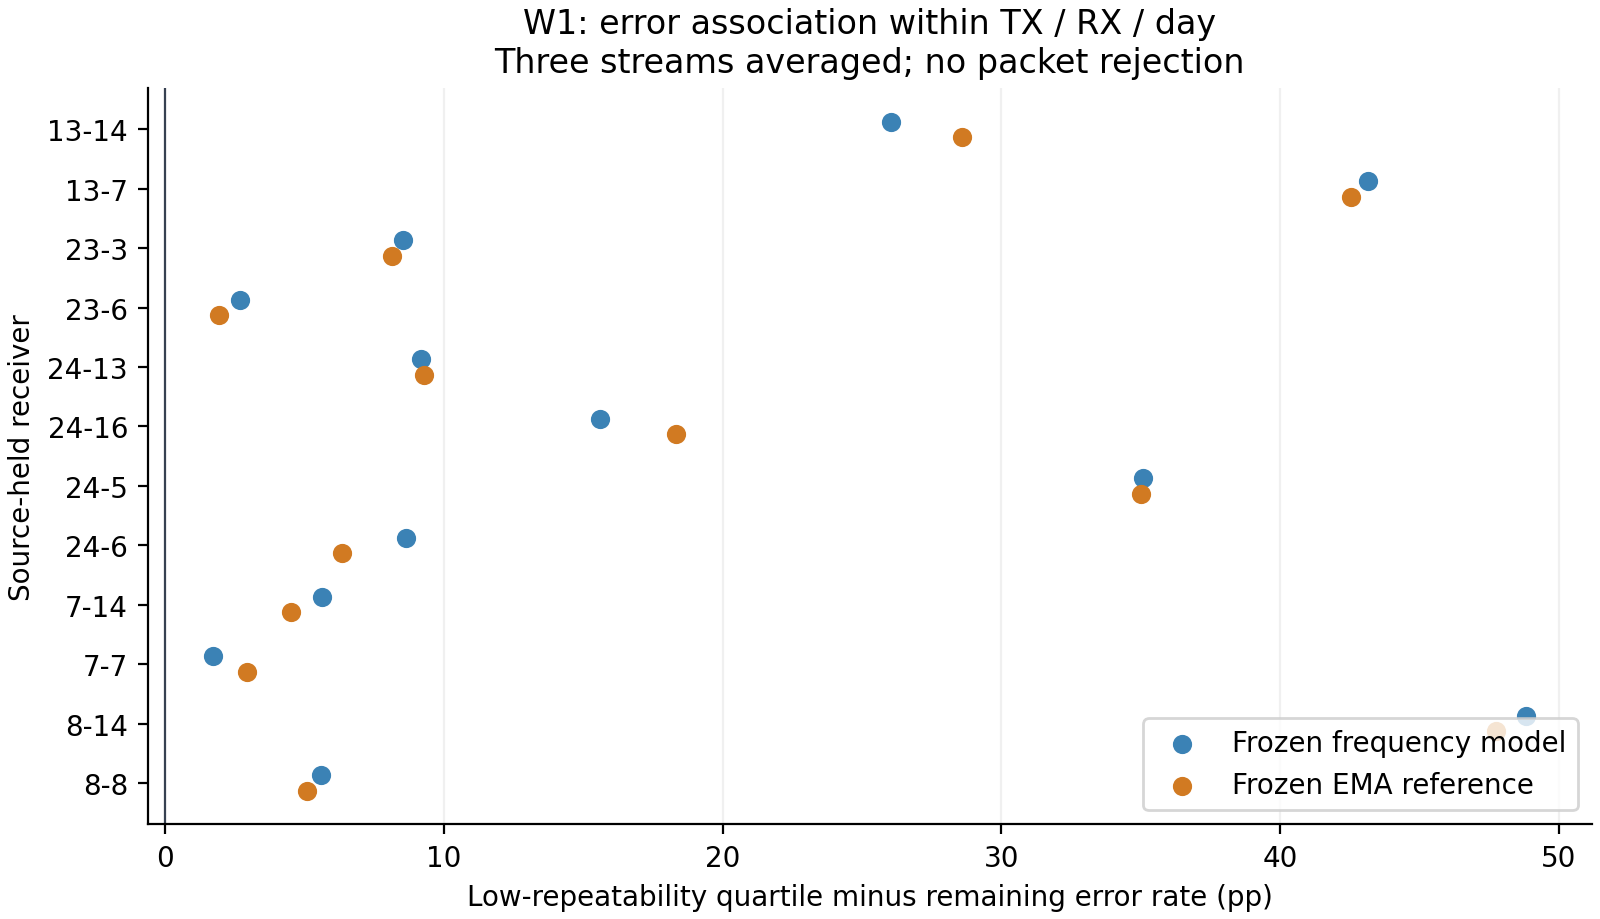
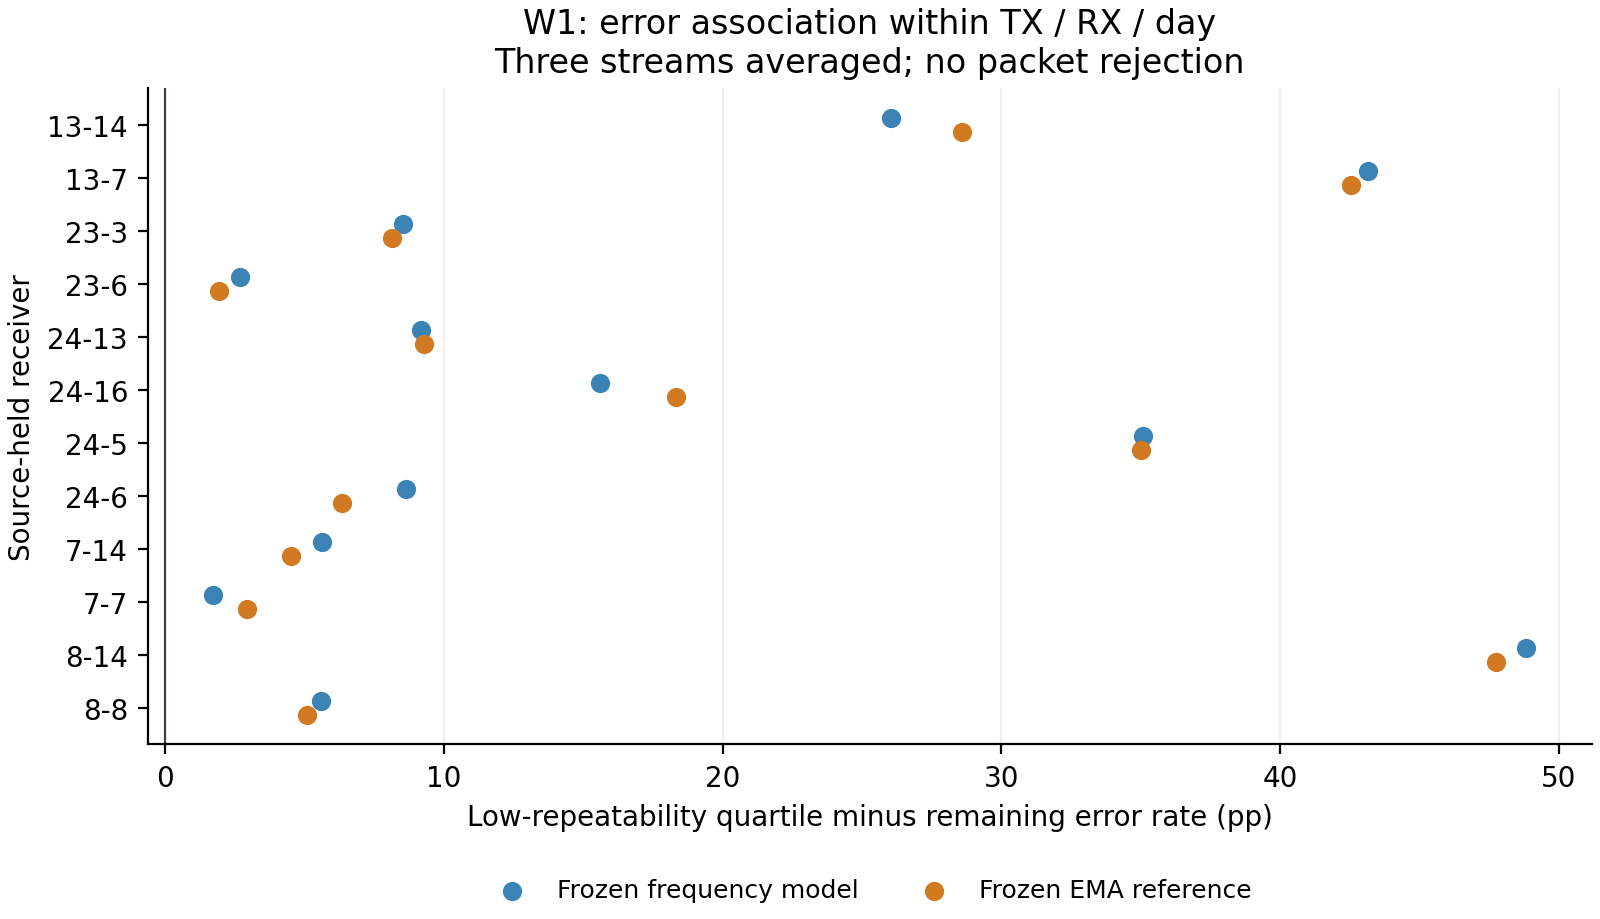
Add execution index and clarify conditional evidence and audit events

diff --git a/research/quality_preservation/plot_results.py b/research/quality_preservation/plot_results.py
@@ -21,7 +21,8 @@ def main():
         ax.scatter(delta,np.arange(len(names))+offset,s=35,color=color,label=label)
     ax.axvline(0,color='#374151',lw=.8);ax.set_yticks(np.arange(len(names)),names);ax.invert_yaxis()
     ax.set_xlabel('Low-repeatability quartile minus remaining error rate (pp)')
-    ax.set_ylabel('Source-held receiver');ax.grid(axis='x',alpha=.18);ax.legend(loc='lower right')
+    ax.set_ylabel('Source-held receiver');ax.grid(axis='x',alpha=.18)
+    ax.legend(loc='upper center',bbox_to_anchor=(.5,-.17),ncol=2,fontsize=9,frameon=False)
     ax.set_title('W1: error association within TX / RX / day\nThree streams averaged; no packet rejection')
     for ext in ('png','svg'):fig.savefig(HERE/f'W1_QUALITY_ASSOCIATION.{ext}',dpi=200)
     plt.close(fig)

diff --git a/research/quality_preservation/README.zh-CN.md b/research/quality_preservation/README.zh-CN.md
@@ -1,0 +1,37 @@
+# WiSig质量条件化指纹保留：受控执行
+
+用户2026-11-13要求参考所附方案执行，并根据现实成果独立判断。本分支`exp/wisig-quality-preservation`基于`02537cb`，保留原LoRa及WiSig负面证据，独立执行W1→有条件W2，不修改旧阶段门槛，也不访问目标RX或日期3–4。
+
+## 阅读顺序
+
+1. [W1预注册](PREREGISTRATION.zh-CN.md)及[结果](RESULTS.zh-CN.md)：22,968合法源包，冻结普通频域及EMA预测；TX×RX×Day内控制混杂。EMA低一致性四分位比其余包高17.5332pp错误，RX条件95%区间[9.0440,26.9902]pp、12/12 RX同向。W1通过后直接进入已授权W2。
+2. [W2冻结协议](W2_PROTOCOL.zh-CN.md)及[W2登记](W2_REGISTRATION.json)：同容量B1普通门控、B2真实质量门控、N0打乱质量负对照，各2视图×3流，总18新拟合。B0复用六个逐比特重放核验的EMA强基线。
+3. [LoRa贡献组织](LORA_CONTRIBUTIONS.zh-CN.md)：一项核心结构贡献、两项支撑证据及投稿边界；本轮新增LoRa训练0。
+4. [文献核验](RELATED_WORK_AUDIT.zh-CN.md)：区分出版方/作者核实信息与未读全文的细节，不用跨协议数字宣传领先。
+
+W2终态以`W2_RESULT.json`和`W2_RESULTS.zh-CN.md`为准（全部训练封存并评分后生成）；`W2_LIVE.json`、`W2_PROGRESS.json`只反映运行进度。ATTEMPT文件记录启动时快照，不代替终态。
+
+![W1按RX的条件错误差](W1_QUALITY_ASSOCIATION.png)
+
+## 证据、检查与复现
+
+- [W1登记](REGISTRATION.json)绑定原源数组白名单、两视图角色、12份历史预测SHA和代码SHA；首次科学IQ读取前已提交`1e24b3e`。
+- W1全部单元/逐RX/反例在`W1_CELLS.csv`、`W1_RECEIVERS.csv`、`W1_COUNTEREXAMPLES.csv`；`W1_QA.json`为独立重算11项通过。
+- 六项合成信号检查验证代理的物理基本性质和混杂控制；W2三臂共240个合成优化步、120个epoch，22项工程检查全部通过，详见`W2_ENGINEERING.json`。首次合成夹具的Windows int32标签错误保留在`ENGINEERING_ATTEMPTS.json`，科学拟合不受影响。
+- `W2_PREFLIGHT.json`给出六份B0的样本角色、初始主干、EMA验证预测精确重放。`W2_TRAINING_SEAL.json`仅在18条轨迹完整结束后生成，先提交再评分。
+- 新权重、优化器/RNG状态、每epoch样本顺序、逐包预测均在本地`artifacts/`，不纳入Git；结果记录逐份SHA。未改动任何历史权重或原缓存。
+
+在本机工作树根目录，以`D:/crossatten/.venv/Scripts/python.exe`运行：
+
+```powershell
+& D:/crossatten/.venv/Scripts/python.exe research/quality_preservation/test_quality.py
+& D:/crossatten/.venv/Scripts/python.exe research/quality_preservation/verify_results.py
+```
+
+科学执行器`run_w1.py`、`w2_execute.py`和`w2_score.py`均设一次性守卫，拒绝覆盖已经存在的科学尝试/结果。复算现有统计使用`verify_results.py`，不重新训练。原始数据需要本地已登记路径，不能只凭报告在无数据机器上复现训练。
+
+## 结论范围
+
+质量代理是固定包相对窗口内的局部重复一致性，不等于物理SNR、完整前导码有效率或TX硬件机制。W1是条件关联；W2才比较算法增益。TX/RX/day分组只用于统计控制，不能拿标签条件下的低四分位作为部署质量阈值。无拒识、无删包，所有包进入分母。
+
+开发RX此前已经反复使用，W1也用其进行机制发现；本轮成绩是条件开发证据，不能恢复全新RX盲测资格。RX型号映射不足，不根据编号猜测B210/N210。低噪声评估采用相对观测功率的名义新增噪声，不能称实际空口SNR。
